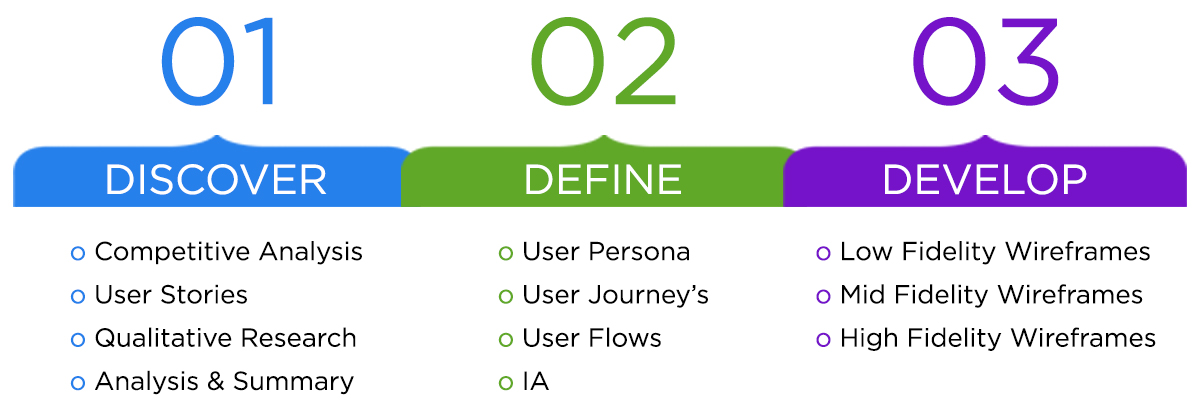
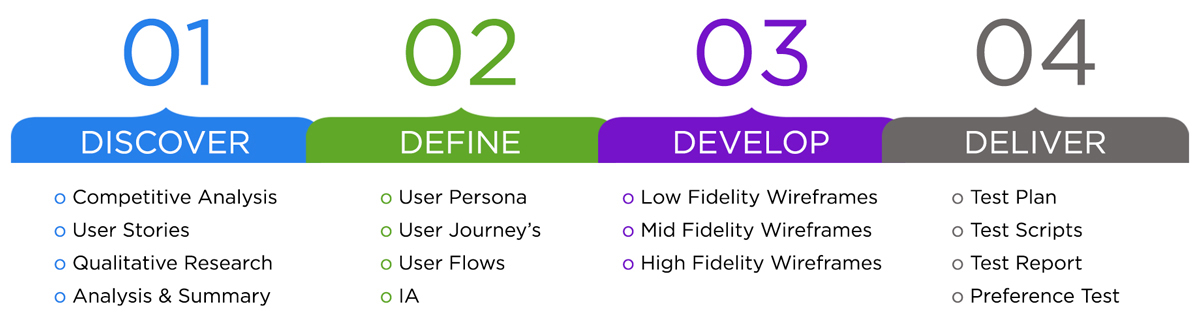
changed image
renamed pluto play project image

diff --git a/pluto-play.html b/pluto-play.html
@@ -6,7 +6,7 @@
 	<meta name="author" content="YourName">
 	<meta name="description" content="Short description including keywords related to the pages content for SEO purposes">
 	<link href="file:///Users/alissabordwick/Desktop/CareerFoundry/Courses/Frontend%20Development%20for%20Designers/1-4%20Coding%20with%20HTML/Portfolio%20Site%20Alissa%20Bordwick/img/favicon.ico" rel="shortcut icon">
-	<title>Alissa Bordwick-+ UX/UI Designer</title>
+	<title>Alissa Bordwick UX/UI Designer</title>
 </head>
 
 <body>
@@ -170,47 +170,217 @@
 
 	<main>
 
-		<!-- For the hero section -->
+		<!-- Pluto Play Project -->
 		<div>
 			<div>
-				<h1>Hi there, I’m Alissa Bordwick… <br>a UX and Graphic Designer based in New York.</h1>
-				<span>Focusing on the needs of users and business goals, I strive to craft better experiences, solve problems and seamlessly bring together people and technology.</span>
+				<h1>Pluto Play</h1>
+					<picture>
+	  			   <source srcset="/img/Pluto-Play-Project@1x.jpg" media="(max-width:767px)">
+						 <img src="img/pluto-play/pluto-play-project@2x.jpg" alt="Pluto Play"/>
+						</picture>
+				<p>Our Pluto Play user needs a way to shop, transfer money, split bills, create budgets, set financial goals, organize rewards/loyalty points and convert currency because they wish to have an efficient way to organize their financial needs in one easy to use place. The following steps were taken to accomplish the above.</p>
 			</div>
+			<div>
+				<picture>
+	  			   <source srcset="/img/pluto-play/My-Process@1x.jpg" media="(max-width:767px)">
+						 <img src="img/pluto-play/My-Process@2x.jpg" alt="Pluto Play"/>
+						</picture>
+			</div>
+			<div>
+				<picture>
+	  			   <source srcset="/img/pluto-play/discover@1x.jpg" media="(max-width:767px)">
+						 <img src="img/pluto-play/discover@2x.jpg" alt="Pluto Play"/>
+				</picture>
+						<h3><strong>Competitive Analysis</strong></h3><p>I analyzed two potential competitors. The first was Amazon Pay which is a service that offers a way to pay for purchases using the payment methods stored in your Amazon account or using Amazon Pay with Alexa. I also analyzed Google Pay, a digital wallet platform and online payment system. By doing so, I was able to see what their strengths and weaknesses were along with what opportunities might come to light for Pluto Play.</P>
+			</div>
+			<div>
+				<picture>
+	  			   <source srcset="/img/pluto-play/Competitive-Analysis@1x.jpg" media="(max-width:767px)">
+						 <img src="img/pluto-play/Competitive-Analysis@2x.jpg" alt="Pluto Play"/>
+				</picture>
+			</div>
+			<div>
+					<h3><strong>UX Analysis</strong></h3><p>Google has built a strong payment app. They keep on brand, create a personalized experience for each user, they have an easy-to-use interface & users can even store event tickets, boarding passes & transit cards all of which would be beneficial to my app Pluto. The issues are that it only works on NFC technology which means that you can only use this service at stores that have NFC POS terminals. Another issue is that although they offer insights to financial spending, they don't offer help on how to budget & create a better financial future. These are the things where Pluto could differentiate from Google Pay.</P>
+			</div>
+			<div>
+				<picture>
+	  			   <source srcset="/img/pluto-play/User_Stories_Qualitative_Analysis@1x.jpg" media="(max-width:767px)">
+						 <img src="img/pluto-play/User_Stories_Qualitative_Analysis@2x.jpg" alt="User Stories & Qualitative Analysis"/>
+				</picture>
+			</div>
+			<div>
+				<picture>
+	  			   <source srcset="/img/pluto-play/define@1x.jpg" media="(max-width:767px)">
+						 <img src="img/pluto-play/define@2x.jpg" alt="Pluto Play"/>
+				</picture>
+			</div>
+			<div>
+						<h3><strong>User Persona</strong></h3><p>With all my data collected and organized I was able to create two persona’s Alicia and Carol. Having these persona’s on hand helped me to empathize with the user as well as realize their needs, frustrations, behaviors and motivations. My persona’s also helped me hypothesis what type of actions/tasks my users may try to accomplish.</p>
+			</div>
+			<div>
+				<picture>
+	  			   <source srcset="/img/pluto-play/Carol-Persona@1x.jpg" media="(max-width:767px)">
+						 <img src="img/pluto-play/Carol-Persona@2x.jpg" alt="Carol Persona"/>
+				</picture>
+			</div>
+			<div>
+				<picture>
+	  			   <source srcset="/img/pluto-play/Alicia-Persona@1x.jpg" media="(max-width:767px)">
+						 <img src="img/pluto-play/Alicia-Persona@2x.jpg" alt="Alicia Persona"/>
+				</picture>
+			</div>
+			<div>
+						<h3><strong>User Journeys</strong></h3><br><p>After carefully analyzing the user persona’s, I came up with a task for each user as well as the journey (including thoughts and emotions) the user will take to accomplish that task. Carol, a 44-year-old mother and teacher, wants to discover something fun and affordable to do with her kids whereas Alicia, a 29-year-old hair dresser wants to use Pluto Play to quickly discover where she has spent money in a given period of time.</p>
+			</div>
+			<div>
+				<picture>
+	  			   <source srcset="/img/pluto-play/Carol-Journey@1x.jpg" media="(max-width:767px)">
+						 <img src="img/pluto-play/Carol-Journey@2x.jpg" alt="Carol Journey"/>
+				</picture>
+			</div>
+			<div>
+				<picture>
+	  			   <source srcset="/img/pluto-play/Alicia-Journey@1x.jpg" media="(max-width:767px)">
+						 <img src="img/pluto-play/Alicia-Journey@2x.jpg" alt="Alicia Journey"/>
+				</picture>
+			</div>
+			<div>
+						<h3><strong>User Flows</strong></h3><p>Here I created three objectives for my persona’s with the purpose to work out an ideal flow for each objective. Carol wants to find a way to store her reward/loyalty points so she can easily access and manage them all from one place.  She also wants to find items she uses/needs at a cheaper rate so she can save money. Alicia on the other hand would like to keep track of money she spent so she can clearly see areas where she can start cutting back and start saving.</p>
+			</div>
+			<div>
+				<picture>
+	  			   <source srcset="/img/pluto-play/Carol-Objective-1-Flow@1x.jpg" media="(max-width:767px)">
+						 <img src="img/pluto-play/Carol-Objective-1-Flow@2x.jpg" alt="Carol First Objective"/>
+				</picture>
+			</div>
+			<div>
+				<picture>
+	  			   <source srcset="/img/pluto-play/Carol-Objective-1-Flow-Chart@1x.jpg" media="(max-width:767px)">
+						 <img src="img/pluto-play/Carol-Objective-1-Flow-Chart@2x.jpg" alt="Carols Second Objective"/>
+				</picture>
+			</div>
+			<div>
+				<picture>
+						 <source srcset="/img/pluto-play/Alicia-Objective-3-Flow@1x.jpg" media="(max-width:767px)">
+						 <img src="img/pluto-play/Alicia-Objective-3-Flow@2x.jpg" alt="Alicia's Objective"/>
+				</picture>
+			</div>
+			<div>
+				<picture>
+	  			   <source srcset="/img/pluto-play/Card-Sorting@1x.jpg" media="(max-width:767px)">
+						 <img src="img/pluto-play/Card-Sorting@2x.jpg" alt="Card Sorting"/>
+				</picture>
+			</div>
+			<div>
+				<picture>
+						 <source srcset="/img/pluto-play/develop@1x.jpg" media="(max-width:767px)">
+						 <img src="img/pluto-play/develop@2x.jpg" alt="Develop Phase"/>
+				</picture>
+			</div>
+			<div>
+						<h3><strong>Low Fidelity Wireframes</strong></h3><p>Using my revised sitemap, I designed low fidelity wireframes for three specific tasks…
+transaction history, searching deals and adding loyalty cards.</p>
+			</div>
+			<div>
+				<picture>
+	  			   <source srcset="/img/pluto-play/Low-Fidelity-Wireframes@1x.jpg" media="(max-width:767px)">
+						 <img src="img/pluto-play/Low-Fidelity-Wireframes@2x.jpg" alt="Low Fidelity Wireframes"/>
+				</picture>
+			</div>
+			<div>
+						<h3><strong>Mid Fidelity Wireframes</strong></h3><p>I took my low fidelity wireframes and refined them a bit more using a design software tool called Adobe XD allowing me to get a better idea of what my app might look like.</p>
+			</div>
+			<div>
+				<picture>
+						 <source srcset="/img/pluto-play/Mid-Fidelity-Wireframes@1x.jpg" media="(max-width:767px)">
+						 <img src="img/pluto-play/Mid-Fidelity-Wireframes@2x.jpg" alt="Mid Fidelity Wireframes"/>
+				</picture>
+			</div>
+		<div>
+			<picture>
+					 <source srcset="/img/pluto-play/deliver@1x.jpg" media="(max-width:767px)">
+					 <img src="img/pluto-play/deliver@2x.jpg" alt="Delivery Phase"/>
+			</picture>
 		</div>
+		<div>
+					<h3><strong>User Testing</strong></h3><p>After conducting generative research, I moved on to <<strong>evaluative research</strong> methods, I conducted <<strong>moderated remote tests</strong> with 6 participants using Zoom lasting approx. 15 minutes each.<br>
 
-		<!-- For your work/projects -->
-		<div>
-			<div>
-				<h2>
-					My Work
-				</h2>
-			</div>
-			<div>
-				<picture>
-  			   <source srcset="/img/pluto-play/Pluto-Play-project@1x.jpg" media="(max-width:767px)">
-					 <img src="img/pluto-play/pluto-play-project@2x.jpg" alt="Pluto Play"/>
-				</picture>
-			</div>
-			<div>
-				<h3>Pluto Play – More Than Just An E-Wallet</h3>
-				<p>Pluto Play is an e-wallet app that offers more than just your average e-wallet. It allows users to create budgets, set financial goals and organize reward/loyalty points. This project was created using the double diamond strategy
-					(discover,
-					define, develop and deliver). Throughout the process I used my research, IA, wireframing, prototyping and graphic design skills to come up with the end product. </p>
-				<a href="pluto-play.html">View Case Study</a>
-			</div>
-			<div>
-				<picture>
-					<source srcset="/img/Vocab2Go/Vocab2Go@1x.jpg" media="(max-width:767px)">
-					<img src="img/Vocab2Go/Vocab2Go@2x.jpg" alt="Vocab2Go"/>
-				</picture>
-			</div>
-			<div>
-				<h3>Vocab2Go – Grow on the go</h3>
-				<p>Vocab2Go is a vocabulary learning app meant for people on the go and who are short on time. This project was created using the double diamond strategy (discover, define, develop and deliver). Throughout the process I used my research, IA,
-					wireframing, prototyping and graphic design skills to come up with the end product. </p>
-				<a href="">View Case Study</a>
-			</div>
+I wanted to get a wide variety of people to test out my new app as the app is not age specific. Therefore my participants ranged in age from 18-64 and also ranged in occupation as shown below.</p>
 		</div>
+		<div>
+			<picture>
+					 <source srcset="/img/pluto-play/User-Testing Chart@1x.jpg" media="(max-width:767px)">
+					 <img src="img/pluto-play/User-Testing Chart@2x.jpg" alt="User Testing"/>
+			</picture>
+		</div>
+		<div>
+					<p>I read my previously written <strong>test script</strong> to each participant which explained what we were doing & why. It then presented 3 scenario task for the participants to complete.<br>The <strong>objective of the test</strong> was to test the usability of the navigation structure and to observe and understand the level of ease & any difficulties faced while trying to complete the scenario tasks.</p>
+		</div>
+		<div>
+					<h3><strong>Analysis & Reporting</strong></h3><p>After reviewing my Zoom recordings, I created an affinity map and sorted out my findings using the following categories: Observations, Positive Quotes, Negative Quotes and Errors. I then took that information and input it into a rainbow spreadsheet to help me understand priorities and solutions for the negative feedback from the Zoom sessions.</p>
+		</div>
+		<div>
+			<picture>
+					 <source srcset="/img/pluto-play/Post-It-Notes@1x.jpg" media="(max-width:767px)">
+					 <img src="img/pluto-play/Post-It-Notes@2x.jpg" alt="Post It Notes"/>
+			</picture>
+			</div>
+			<div>
+				<picture>
+						 <source srcset="/img/pluto-play/Rainbow-Chart@1x.jpg" media="(max-width:767px)">
+						 <img src="img/pluto-play/Rainbow-Chart@2x.jpg" alt="Rainbow Chart"/>
+				</picture>
+				</div>
+				<div>
+					<p><strong>Overall</strong> Pluto Play was liked by all participants. They were pleasantly surprised to see an app that does more than just a typical e-wallet. They had positive reactions to the straightforward, balanced and easy to use interface/navigation. The findings from the usability test will help further develop the prototype to improve user experience.</p>
+				</div>
+				<div>
+							<h3><strong>High Fidelity Wireframes</strong></h3><p>In this step I added more details to make it look more realistic. I decided to keep working in Adobe XD to create an interactive prototype as it allows me to design, prototype and share my design.</p>
+				</div>
+				<div>
+					<h3><strong>Home Screen</strong></h3>
+					<picture>
+							 <source srcset="/img/pluto-play/Home-Screens@1x.jpg" media="(max-width:767px)">
+							 <img src="img/pluto-play/Home-Screens@2x.jpg" alt="Home Screen"/>
+					</picture>
+				</div>
+				<div>
+							<h3><strong>Finance Screens</strong></h3><p>The screen on the left is where the user is brought once the Finance tab is hit. From there, if a user would like to check their transaction history, they can click on “Activity” which brings you to the middle screen where the user can filter their search. Finally they are brought to the screen on the right... the results page.</p>
+				</div>
+				<div>
+					<picture>
+							 <source srcset="/img/pluto-play/Finance-Screens@1x.jpg" media="(max-width:767px)">
+							 <img src="img/pluto-play/Finance-Screens@2x.jpg" alt="Finance Screens"/>
+					</picture>
+				</div>
+				<div>
+							<h3><strong>Reward Screens</strong></h3><p>The screen on the left is where the user is brought once the Rewards tab is hit. From there, if a user would like to add a rewards/loyalty card, they can scroll down and click on “Add Rewards/Loyalty card” which brings you to the middle screen where the user can either take a picture of their physical rewards card or type in their information. Once they are done they hit “Save” and are brought to the congratulations screen on the right.</p>
+				</div>
+				<div>
+					<picture>
+							 <source srcset="/img/pluto-play/Rewards-Screens@1x.jpg" media="(max-width:767px)">
+							 <img src="img/pluto-play/Rewards-Screens@2x.jpg" alt="Reward Screens"/>
+					</picture>
+				</div>
+				<div>
+							<h3><strong>Deal Screens</strong></h3><p>The first screen is where the user is brought once the Deals tab is hit. The user can search tons of deals. In this particular scenario, the user is searching for a Mickey Mouse puzzle. They hit “Toys and Games” in the category section and are brought to the second screen “Toys and Games”. They then click on “Filter Search”, click on their preferences and hit “Apply Filters”. They are then brought to a screen which shows them exactly where they can buy this puzzle and for how much.</p>
+				</div>
+				<div>
+					<picture>
+							 <source srcset="/img/pluto-play/Deals-Screens@1x.jpg" media="(max-width:767px)">
+							 <img src="img/pluto-play/Deals-Screens@2x.jpg" alt="Deal Screens"/>
+					</picture>
+				</div>
+				<div>
+					<picture>
+							 <source srcset="/img/pluto-play/Phones@1x.jpg" media="(max-width:767px)">
+							 <img src="img/pluto-play/Phones@2x.jpg" alt="Phone Screens"/>
+					</picture>
+				</div>
+				<div>
+						<a href="https://xd.adobe.com/view/aa2dc423-1b8e-47b5-8bc4-730ddf9342b0-ff7e/?fullscreen">Check out the most recent prototype of Pluto Play here!</a>
+						</div>
+
 	</main>
 	<!-- For the footer  -->
 	<footer id="contact">

diff --git a/about.html b/about.html
@@ -176,8 +176,8 @@
       </div>
       <div>
 				<picture>
-					<source srcset="/img/pluto-play/Me@2x.jpg" media="(max-width:767px)">
-					<img src="img/pluto-play/Me@1x.jpg" alt="Alissa Bordwick"/>
+					<source srcset="/img/pluto-play/Me@1x.jpg" media="(max-width:767px)">
+					<img src="img/pluto-play/Me@2x.jpg" alt="Alissa Bordwick"/>
 				</picture>
       </div>
       <div>
